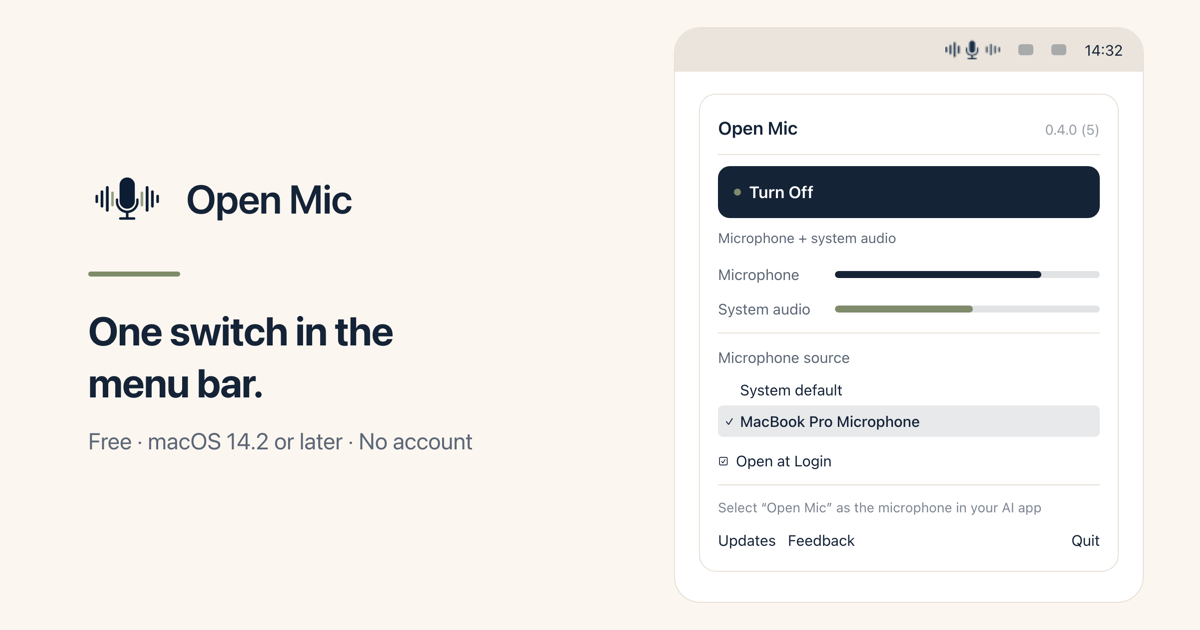
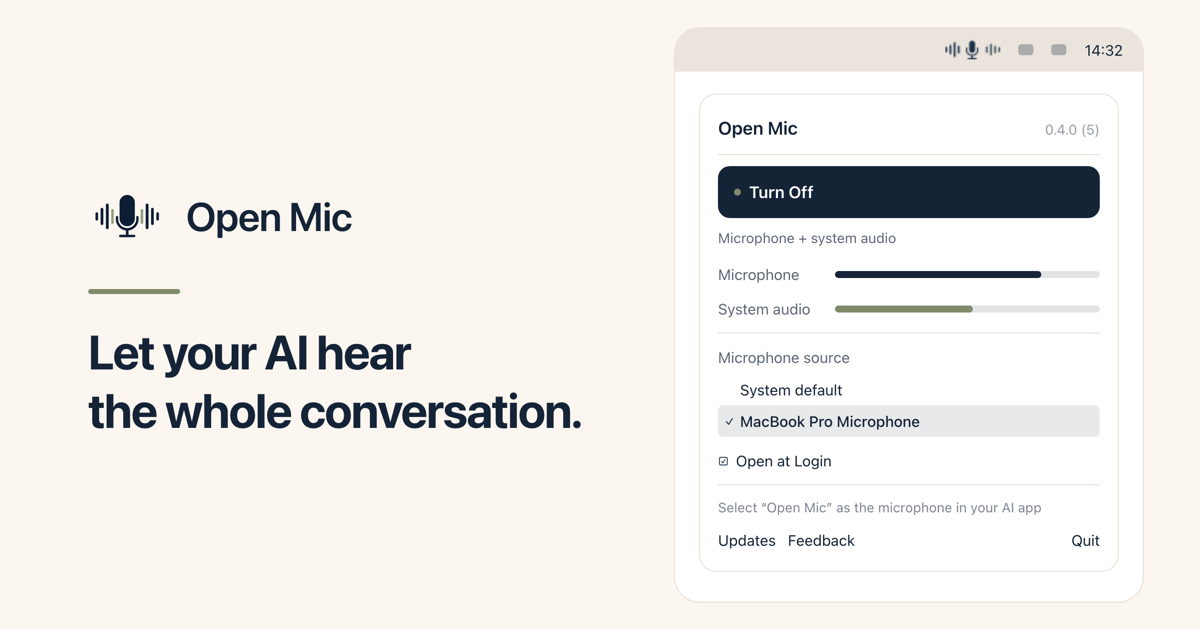
Put the headline on the card, and the name in the title
The card carried the weaker line so it would not repeat the title printed
underneath it. That solved the repetition from the wrong end: the image is what
gets looked at in a timeline, so it should hold the strongest sentence, and the
title is the part that can afford to be just the product name.

og:title is now Open Mic in both languages. The description still carries the
tagline, so nothing is said twice and nothing is lost.

Changed region(s): [[0.0617, 0.4222, 0.4933, 0.7238], [0.0617, 0.2714, 0.3083, 0.3921]]

diff --git a/assets/og-card.html b/assets/og-card.html
@@ -2,10 +2,10 @@
 <meta charset="utf-8">
 <link rel="stylesheet" href="assets/site.css">
 <style>
-  /* The card shows the thing itself. The platform always prints the title and
-     the description underneath, so a card that also spells out the headline and
-     the tagline makes the reader read the same two sentences twice — which is
-     what the first version did. The panel is what those sentences cannot say. */
+  /* The headline belongs here, where it is read large, and og:title is cut back
+     to the product name so it is not printed twice. Putting the weaker line on
+     the card to avoid the repetition had it the wrong way round. The panel
+     stays: it is the part no line of text underneath can show. */
   html, body { width: 1200px; height: 630px; margin: 0; overflow: hidden; }
   body {
     background: var(--bg);
@@ -17,8 +17,8 @@
   .brand img { width: 78px; height: 78px; border-radius: 21px; display: block; }
   .brand span { font-size: 40px; font-weight: 600; letter-spacing: -.02em; }
   .line { height: 5px; width: 92px; background: var(--sage); border-radius: 3px; margin-bottom: 28px; }
-  .say { font-size: 40px; font-weight: 700; line-height: 1.3; letter-spacing: -.02em;
-         word-break: auto-phrase; max-width: 11em; }
+  .say { font-size: 48px; font-weight: 700; line-height: 1.22; letter-spacing: -.03em;
+         word-break: auto-phrase; }
   .say .soft { color: var(--ink-soft); font-weight: 400; font-size: 23px;
                display: block; margin-top: 18px; letter-spacing: 0;
                white-space: nowrap; }
@@ -75,7 +75,7 @@
   const lang = new URLSearchParams(location.search).get("lang") || "en";
   document.documentElement.lang = lang;
   document.getElementById("say").innerHTML = {
-    en: 'One switch in the<br>menu bar.<span class="soft">Free · macOS 14.2 or later · No account</span>',
-    ja: 'メニューバーの<br>スイッチひとつ。<span class="soft">無料 · macOS 14.2 以降 · アカウント不要</span>'
+    en: 'Let your AI hear<br>the whole conversation.',
+    ja: 'AIに、会話の<br>ぜんぶを聞かせる。'
   }[lang];
 </script>

diff --git a/ja/index.html b/ja/index.html
@@ -15,15 +15,17 @@
 <meta property="og:url" content="https://tkkrtky.github.io/OpenMic/ja/">
 <meta property="og:locale" content="ja_JP">
 <meta property="og:locale:alternate" content="en_US">
-<meta property="og:title" content="Open Mic — AIに、会話のぜんぶを聞かせる">
+<!-- 製品名だけにする。見出しはカード画像側にあり、タイトルは画像の直下に
+     表示されるので、両方に置くと同じ一文を二度読ませることになる。 -->
+<meta property="og:title" content="Open Mic">
 <meta property="og:description" content="あなたの声と、Macから聞こえる声を、ひとつの仮想マイクにミックス。無料、macOS 14.2以降、アカウント不要。">
 <!-- 絶対URL。クローラには相対パスを解決する基準がない。1.91:1のカード用に作った画像で、正方形のアプリアイコンは余白だらけになっていた。 -->
 <meta property="og:image" content="https://tkkrtky.github.io/OpenMic/assets/og-ja.png">
 <meta property="og:image:width" content="1200">
 <meta property="og:image:height" content="630">
-<meta property="og:image:alt" content="メニューバーで動作しているOpen Micのパネル。マイクとシステム音声のバランスが別々に表示されている">
+<meta property="og:image:alt" content="AIに、会話のぜんぶを聞かせる ─ メニューバーで動作しているOpen Micのパネル。マイクとシステム音声のバランスが別々に表示されている">
 <meta name="twitter:card" content="summary_large_image">
-<meta name="twitter:title" content="Open Mic — AIに、会話のぜんぶを聞かせる">
+<meta name="twitter:title" content="Open Mic">
 <meta name="twitter:description" content="あなたの声と、Macから聞こえる声を、ひとつの仮想マイクにミックス。">
 <meta name="twitter:image" content="https://tkkrtky.github.io/OpenMic/assets/og-ja.png">
 </head>

diff --git a/index.html b/index.html
@@ -15,16 +15,18 @@
 <meta property="og:url" content="https://tkkrtky.github.io/OpenMic/">
 <meta property="og:locale" content="en_US">
 <meta property="og:locale:alternate" content="ja_JP">
-<meta property="og:title" content="Open Mic — let your AI hear the whole conversation">
+<!-- Just the name: the headline is on the card itself, and a platform prints
+     the title directly under the image. -->
+<meta property="og:title" content="Open Mic">
 <meta property="og:description" content="Mix your microphone and your Mac's audio into one virtual microphone. Free, macOS 14.2 or later, no account.">
 <!-- Absolute, because a scraper has no page to resolve a relative path against.
      Sized for the 1.91:1 card: the square app icon was being letterboxed. -->
 <meta property="og:image" content="https://tkkrtky.github.io/OpenMic/assets/og.png">
 <meta property="og:image:width" content="1200">
 <meta property="og:image:height" content="630">
-<meta property="og:image:alt" content="The Open Mic panel in the macOS menu bar, with separate levels for the microphone and system audio">
+<meta property="og:image:alt" content="Let your AI hear the whole conversation — the Open Mic panel in the macOS menu bar, with separate levels for the microphone and system audio">
 <meta name="twitter:card" content="summary_large_image">
-<meta name="twitter:title" content="Open Mic — let your AI hear the whole conversation">
+<meta name="twitter:title" content="Open Mic">
 <meta name="twitter:description" content="Mix your microphone and your Mac's audio into one virtual microphone.">
 <meta name="twitter:image" content="https://tkkrtky.github.io/OpenMic/assets/og.png">
 </head>
